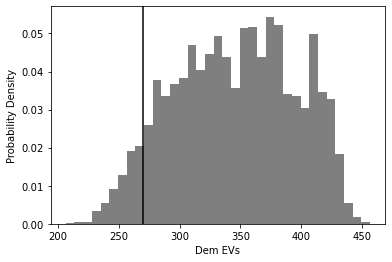
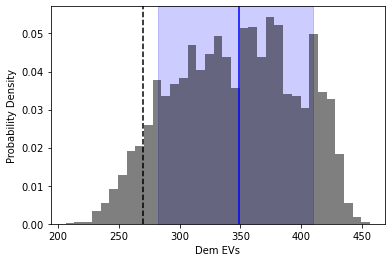
Plot tolerance intervals as shaded regions

diff --git a/PyMonteCarlo/mc_plot.py b/PyMonteCarlo/mc_plot.py
@@ -138,8 +138,12 @@ def mc_plot_hist(mcvar, highlight_cases=[], cumulative=False, orientation='verti
             plt.plot([mcvar.nums[i], mcvar.nums[i]], ylim, linestyle='-', color='red')
         for mcvarstat in mcvar.mcvarstats:
             nums = get_iterable(mcvarstat.nums)
-            for num in nums:                
-                plt.plot([num,num], ylim, linestyle='--', color='k')
+            if length(nums) == 1:
+                plt.plot([nums[0],nums[0]], ylim, linestyle='-', color='b')
+            elif length(nums) == 3:
+                plt.plot([nums[1],nums[1]], ylim, linestyle='-', color='b')
+            if length(nums) in (2, 3):
+                ax.fill_between([nums[0],nums[-1]], [ylim[0], ylim[0]], [ylim[1], ylim[1]], color='b', alpha=0.2)
         plt.xlabel(mcvar.name)
         plt.ylabel(ylabeltext)
         apply_category_labels(ax, mcvarx=mcvar)
@@ -150,8 +154,12 @@ def mc_plot_hist(mcvar, highlight_cases=[], cumulative=False, orientation='verti
             plt.plot(xlim, [mcvar.nums[i], mcvar.nums[i]], linestyle='-', color='red')
         for mcvarstat in mcvar.mcvarstats:
             nums = get_iterable(mcvarstat.nums)
-            for num in nums:                
-                plt.plot(xlim, [num,num], linestyle='--', color='k')
+            if length(nums) == 1:
+                plt.plot(xlim, [nums[0],nums[0]], linestyle='-', color='b')
+            elif length(nums) == 3:
+                plt.plot(xlim, [nums[1],nums[1]], linestyle='-', color='b')
+            if length(nums) in (2,3):
+                ax.fill_between(xlim, nums[0], nums[-1], color='b', alpha=0.2)
         plt.ylabel(mcvar.name)
         plt.xlabel(ylabeltext)
         apply_category_labels(ax, mcvary=mcvar)
@@ -197,16 +205,18 @@ def mc_plot_2d_line(mcvarx, mcvary, cases=None, highlight_cases=[], ax=None, tit
     reg_cases = set(get_iterable(cases)) - set(get_iterable(highlight_cases))
     highlighted_cases = get_iterable(highlight_cases)
     for i in reg_cases:
-        plt.plot(mcvarx.nums[i], mcvary.nums[i], linestyle='-', color='black', alpha=0.3)
+        plt.plot(mcvarx.nums[i], mcvary.nums[i], linestyle='-', color='black', alpha=0.2)
     for i in highlighted_cases:
         plt.plot(mcvarx.nums[i], mcvary.nums[i], linestyle='-', color='red', alpha=1)     
 
     for mcvarstat in mcvary.mcvarstats:
-        if length(mcvarstat.nums[0]) > 1:
-            for i in range(length(mcvarstat.nums[0])):
-                plt.plot(mcvarx.nums[0], mcvarstat.nums[:,i], linestyle='--', color='k')
-        else:
-            plt.plot(mcvarx.nums[0], mcvarstat.nums[:], linestyle='--', color='k')            
+        if length(mcvarstat.nums[0]) == 1:
+            plt.plot(mcvarx.nums[0], mcvarstat.nums[:], linestyle='-', color='b')
+        elif length(mcvarstat.nums[0]) == 3:
+            plt.plot(mcvarx.nums[0], mcvarstat.nums[:,1], linestyle='-', color='b')
+        if length(mcvarstat.nums[0]) in (2,3):
+            ax.fill_between(mcvarx.nums[0], mcvarstat.nums[:,0], mcvarstat.nums[:,-1], color='b', alpha=0.3)
+                     
 
     plt.xlabel(mcvarx.name)
     plt.ylabel(mcvary.name)
@@ -366,7 +376,8 @@ if __name__ == '__main__':
     nummap={1:'a',2:'b',3:'c',4:'d',5:'e'}
     mcinvars['randint'] = MCInVar('randint', randint, (1, 5), 1000, nummap=nummap)
     mcinvars['norm'] = MCInVar('norm', norm, (10, 4), 1000)
-    mcinvars['norm'].addVarStat('orderstatTI', {'p':0.75, 'c':0.50})
+    mcinvars['norm'].addVarStat('orderstatTI', {'p':0.75, 'c':0.50, 'bound':'2-sided'})
+    mcinvars['norm'].addVarStat('orderstatP', {'p':0.5, 'c':0.9999, 'bound':'all'})
     mcinvars['norm2'] = MCInVar('norm2', norm, (10, 4), 1000)
     mcoutvars = dict()
     mcoutvars['test'] = MCOutVar('test', [1, 0, 2, 2], firstcaseisnom=True)
@@ -388,7 +399,7 @@ if __name__ == '__main__':
     var3 = MCOutVar('testz', [1*v, 2*v, 0*v, -1*v, -2*v], firstcaseisnom=True)
     var2.addVarStat('sigmaP', {'sig':3})
     var2.addVarStat('sigmaP', {'sig':-3})
-    var2.addVarStat('orderstatTI', {'p':0.6, 'c':0.50})
+    var2.addVarStat('orderstatTI', {'p':0.6, 'c':0.50, 'bound':'2-sided'})
     var2.addVarStat('mean')
     
     mc_plot(var2, highlight_cases=None)         # mc_plot_2d_line

diff --git a/examples/election/election_example_run_script.py b/examples/election/election_example_run_script.py
@@ -38,9 +38,11 @@ def election_example_run_script():
     
     sim.runSim()
     
+    sim.mcoutvars['Dem EVs'].addVarStat(stattype='orderstatP',statkwargs={'p':0.5,'bound':'nearest'})
+    sim.mcoutvars['Dem EVs'].addVarStat(stattype='orderstatTI',statkwargs={'p':0.75,'c':0.90,'bound':'2-sided'})
     fig, ax = mc_plot(sim.mcoutvars['Dem EVs'])
     ax.set_autoscale_on(False)
-    ax.plot([270,270], [0,1], 'k')
+    ax.plot([270,270], [0,1], '--k')
     
     pct_dem_win = sum(x == 'Dem' for x in sim.mcoutvars['Winner'].vals)/sim.ncases
     pct_rep_win = sum(x == 'Rep' for x in sim.mcoutvars['Winner'].vals)/sim.ncases
@@ -56,8 +58,9 @@ def election_example_run_script():
         dem_win_state_pct[state] = sum(x == 'Dem' for x in sim.mcoutvars[f'{state} Winner'].vals)/sim.ncases
 
     # Only generate state map if plotly installed. Want to avoid this as a dependency
+    gen_map = False
     import importlib
-    if importlib.util.find_spec('plotly'):
+    if importlib.util.find_spec('plotly') and gen_map:
         import plotly.graph_objects as go
         from plotly.offline import plot
         plt.figure()

diff --git a/README.md b/README.md
@@ -52,7 +52,6 @@ might be encountered are provided.
     * ~~Pandemic Modeling~~
     * ~~Rocket Flight~~
 * Break out tests
-* Plot tolerance intervals as shaded regions
 * 2D Scatter Statistics
 * Get keyboard interrupt working
 
@@ -90,6 +89,7 @@ might be encountered are provided.
 * ~~Progress bar~~
 * ~~Continue partial results~~
 * ~~Dataframe support~~
+* ~~Plot tolerance intervals as shaded regions~~
 
 
 ### License:
